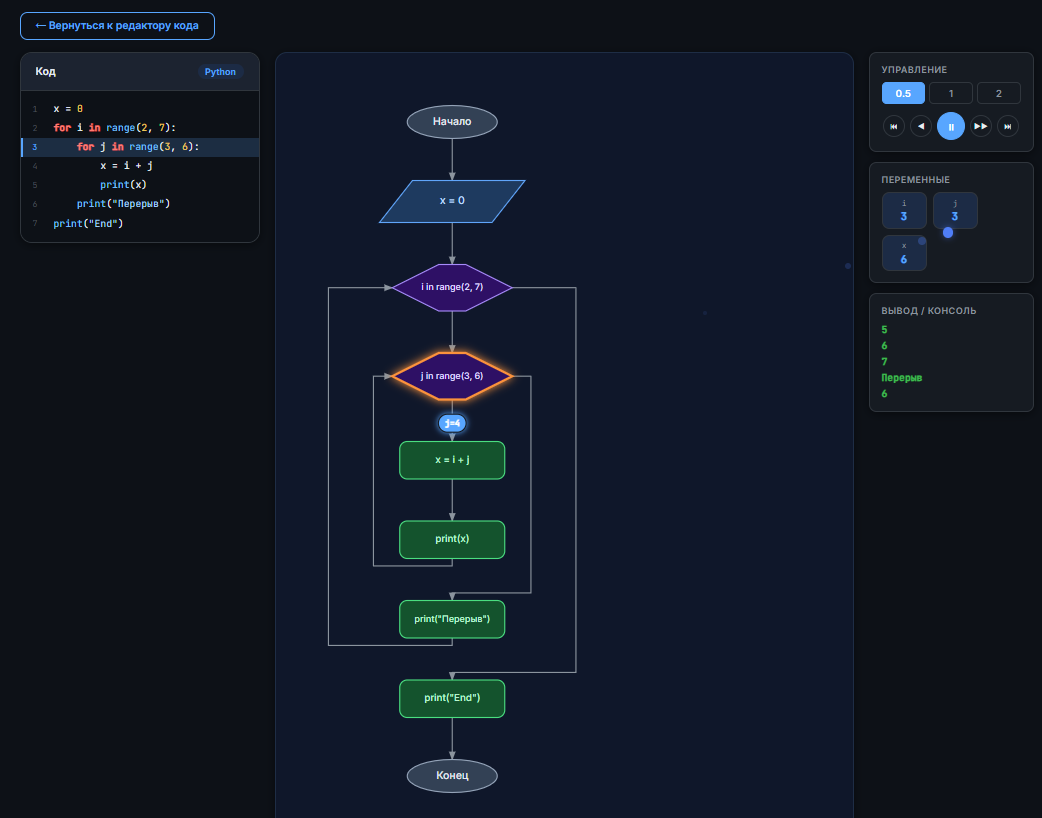
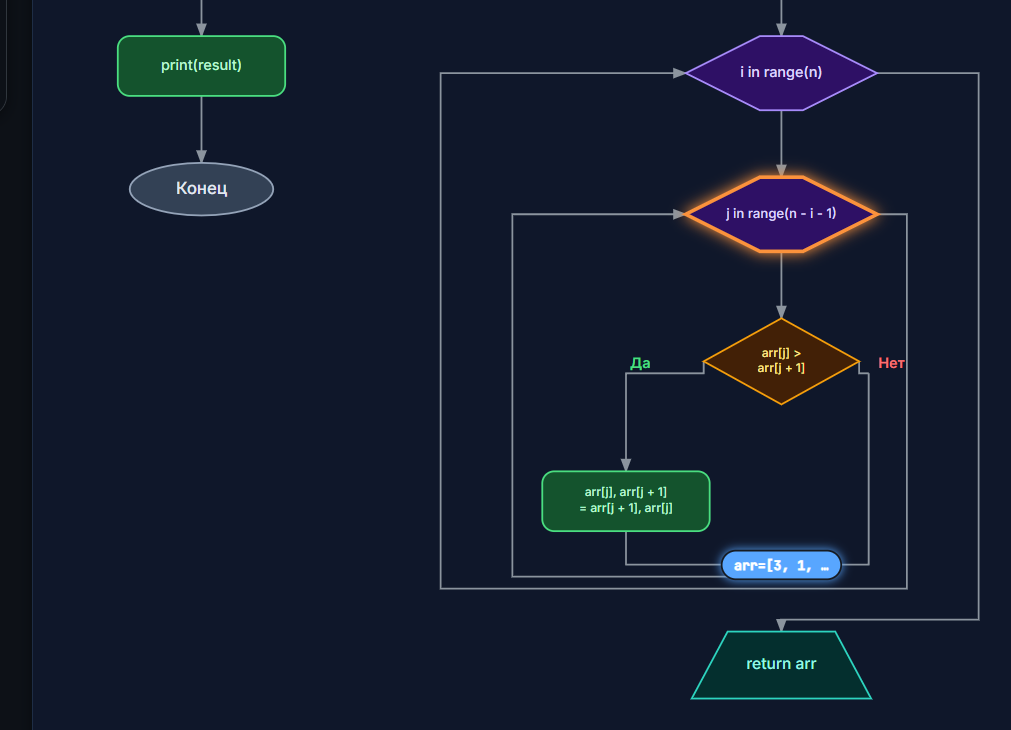
fix: блок «Ваш прогресс» на главной теперь считает реальные данные пользователя
Три карточки («Решено задач», «Изучено тем», «Лучший результат») показывали
захардкоженные числа (145 / 9 из 27 / 90) одинаковые для всех пользователей.
Добавлена load_homepage_progress() — считает реальные значения из
user_task_answers/user_theory_progress/user_lesson_progress/user_results,
без изменений схемы БД. Для пользователей без истории — мотивационная
плашка с призывом решить первую задачу вместо нулей.

Также обновлены превью-фото секции «Видеоразборы и уроки» (реальные
скриншоты сайта вместо скриншота админки и удалённого варианта) и фото
визуализатора кода.

diff --git a/templates/start.html b/templates/start.html
@@ -637,6 +637,21 @@
             font-weight: 500;
         }
 
+        .progress-empty {
+            background: rgba(255, 255, 255, 0.95);
+            border: 1px solid rgba(37, 99, 235, 0.16);
+            border-radius: 13px;
+            padding: 32px 24px;
+            text-align: center;
+            box-shadow: 0 4px 16px rgba(37, 99, 235, 0.09);
+        }
+
+        .progress-empty-text {
+            color: #475569;
+            font-size: 0.95em;
+            margin: 0 0 16px;
+        }
+
         /* ============================================================
            ГОСТЕВОЙ БЛОК
         ============================================================ */
@@ -3137,20 +3152,27 @@
                 <span class="progress-header-title">📈 Ваш прогресс</span>
                 <a href="/stats" class="progress-more-link">Подробная статистика →</a>
             </div>
+            {% if progress and (progress.solved_tasks > 0 or progress.topics_studied > 0 or progress.best_score > 0) %}
             <div class="progress-cards">
                 <div class="progress-card reveal">
-                    <div class="progress-num">145</div>
+                    <div class="progress-num">{{ progress.solved_tasks }}</div>
                     <div class="progress-label">Решено задач</div>
                 </div>
                 <div class="progress-card reveal">
-                    <div class="progress-num">9 / 27</div>
+                    <div class="progress-num">{{ progress.topics_studied }} / 27</div>
                     <div class="progress-label">Изучено тем</div>
                 </div>
                 <div class="progress-card reveal">
-                    <div class="progress-num">90</div>
+                    <div class="progress-num">{{ progress.best_score }}</div>
                     <div class="progress-label">Лучший результат, баллов</div>
                 </div>
             </div>
+            {% else %}
+            <div class="progress-empty reveal">
+                <p class="progress-empty-text">Прогресс появится здесь, как только вы решите первую задачу</p>
+                <a href="/variants" class="hero-btn hero-btn-primary progress-empty-btn">Начать решать →</a>
+            </div>
+            {% endif %}
         </section>
         {% endif %}
 

diff --git a/app.py b/app.py
@@ -509,6 +509,43 @@ def load_user_stats(user_id):
     return stats
 
 
+def load_homepage_progress(user_id):
+    """Сводка для блока 'Ваш прогресс' на главной странице."""
+    db = get_db()
+
+    variant_correct = db.execute(
+        "SELECT COUNT(*) FROM user_task_answers WHERE user_id=? AND is_correct=1",
+        (user_id,),
+    ).fetchone()[0]
+    theory_correct = db.execute(
+        "SELECT COUNT(*) FROM user_theory_progress WHERE user_id=? AND is_correct=1",
+        (user_id,),
+    ).fetchone()[0]
+    lesson_correct = db.execute(
+        "SELECT COUNT(*) FROM user_lesson_progress WHERE user_id=? AND is_correct=1",
+        (user_id,),
+    ).fetchone()[0]
+    topics_studied = db.execute(
+        "SELECT COUNT(DISTINCT task_num) FROM user_theory_progress WHERE user_id=? AND is_correct=1",
+        (user_id,),
+    ).fetchone()[0]
+    best_score = (
+        db.execute(
+            "SELECT MAX(secondary_score) FROM user_results WHERE user_id=?",
+            (user_id,),
+        ).fetchone()[0]
+        or 0
+    )
+
+    db.close()
+
+    return {
+        "solved_tasks": variant_correct + theory_correct + lesson_correct,
+        "topics_studied": topics_studied,
+        "best_score": best_score,
+    }
+
+
 def load_task_number_stats(user_id):
     """Детальная статистика по каждому из 27 номеров заданий ЕГЭ:
     сколько всего отвечено (варианты + практика теории) и сколько правильно.
@@ -1071,7 +1108,10 @@ def check_theory_answer():
 # === МАРШРУТЫ ===
 @app.route("/")
 def start():
-    return render_template("start.html")
+    progress = None
+    if "user_id" in session:
+        progress = load_homepage_progress(session["user_id"])
+    return render_template("start.html", progress=progress)
 
 
 @app.route("/variants")
